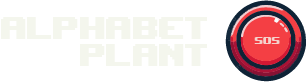
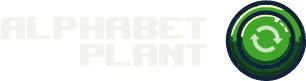
Add files via upload

Changed region(s): [[0.7353, 0.0, 1.0, 1.0]]

diff --git a/a_l.htm b/a_l.htm
@@ -83,7 +83,7 @@
         <div id="grid"></div>
         <div id="progressbar"><div id="progress"></div></div>
         <br>
-        <img src="sos.png">
+        <img src="sos.png" alt="Refresh" onclick="location.reload()">
         <div id="popup">
             <div id="rating"></div>
             <button onclick="closePopup()">確定</button>
